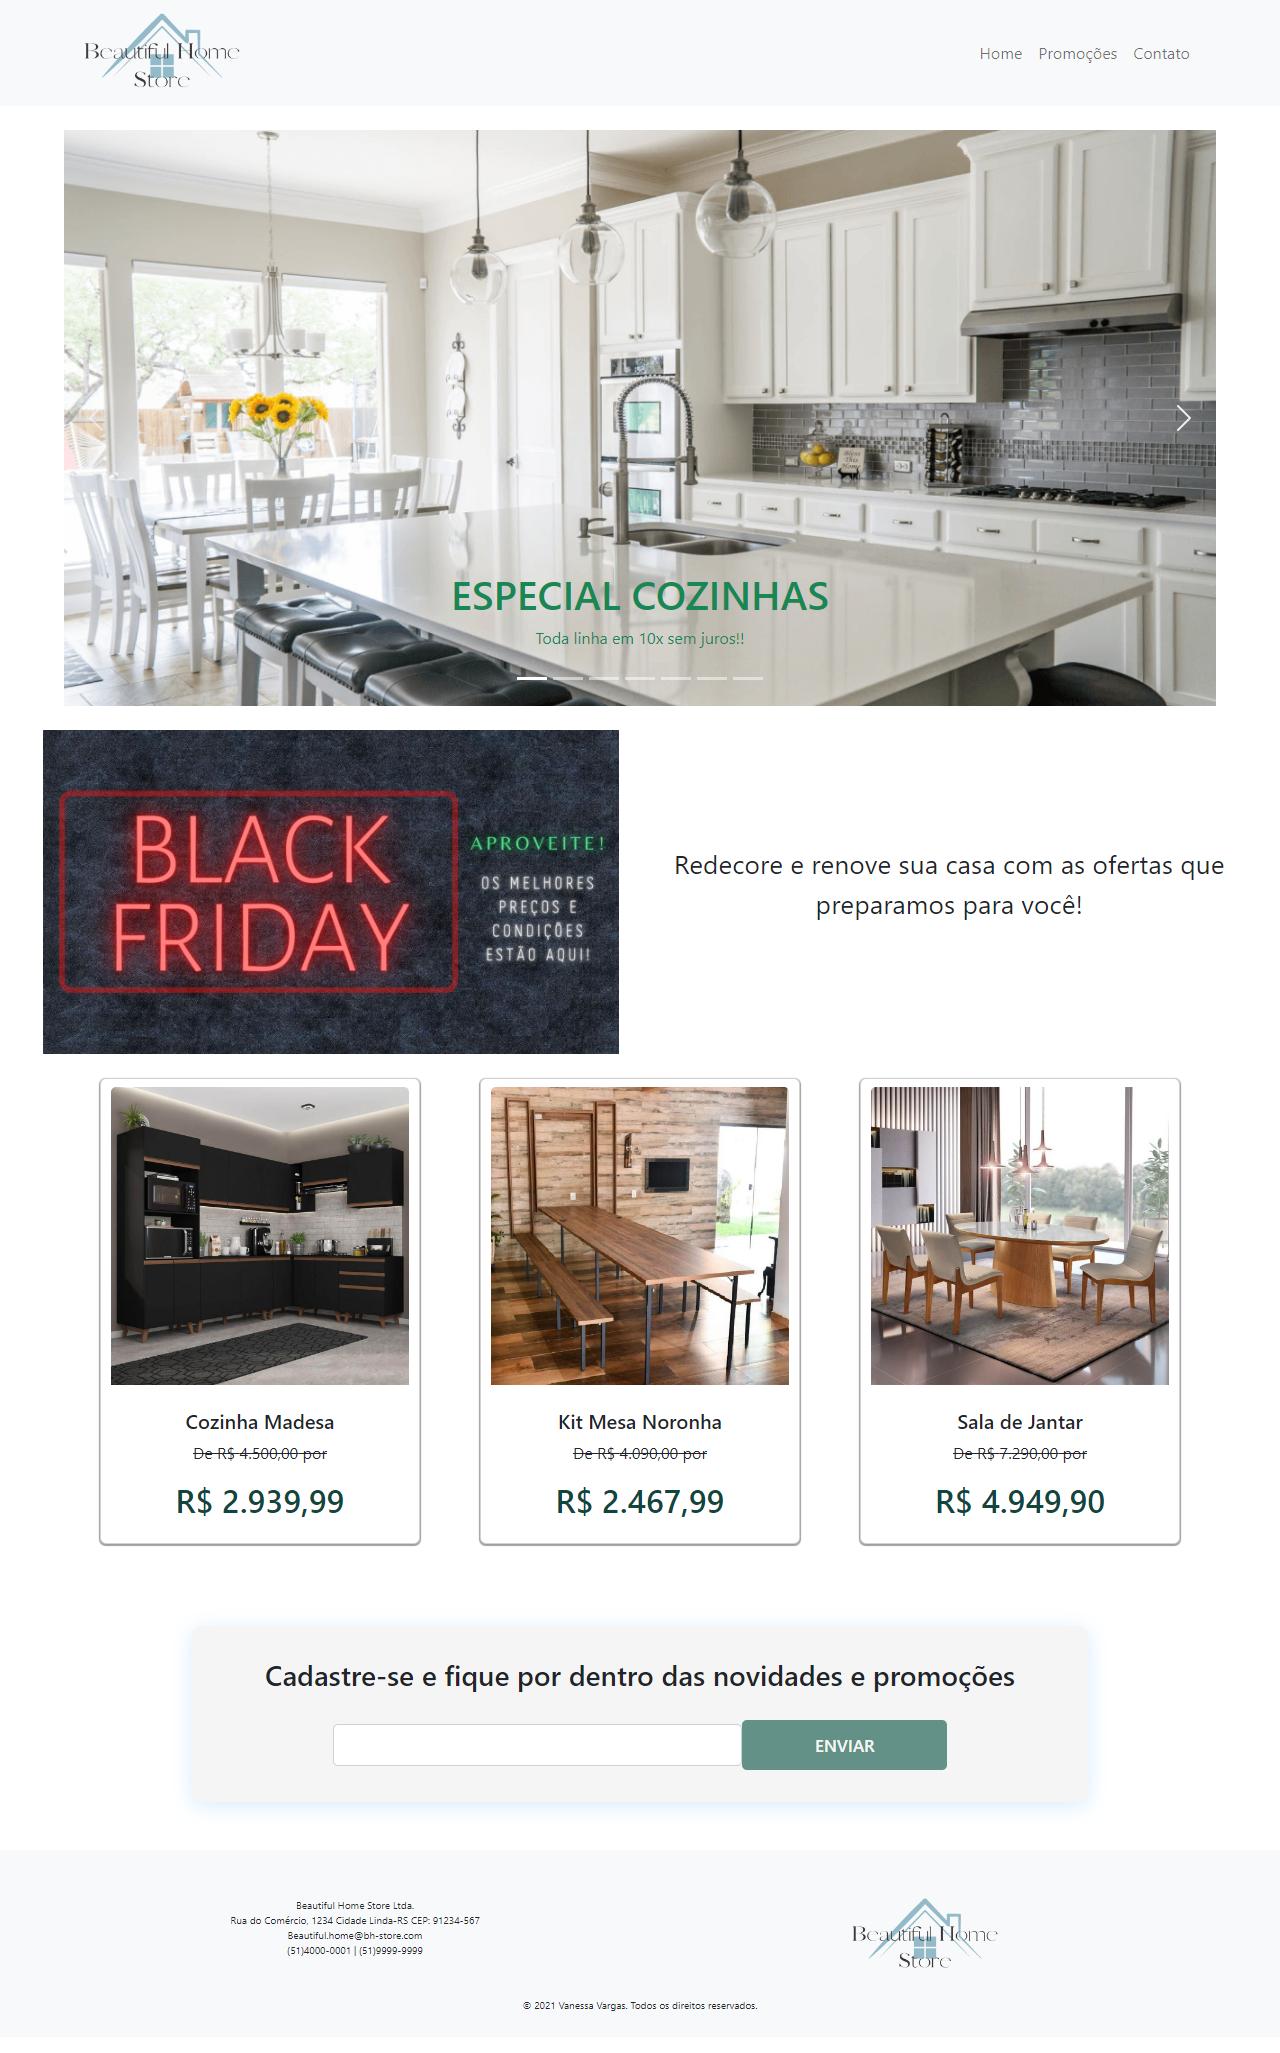
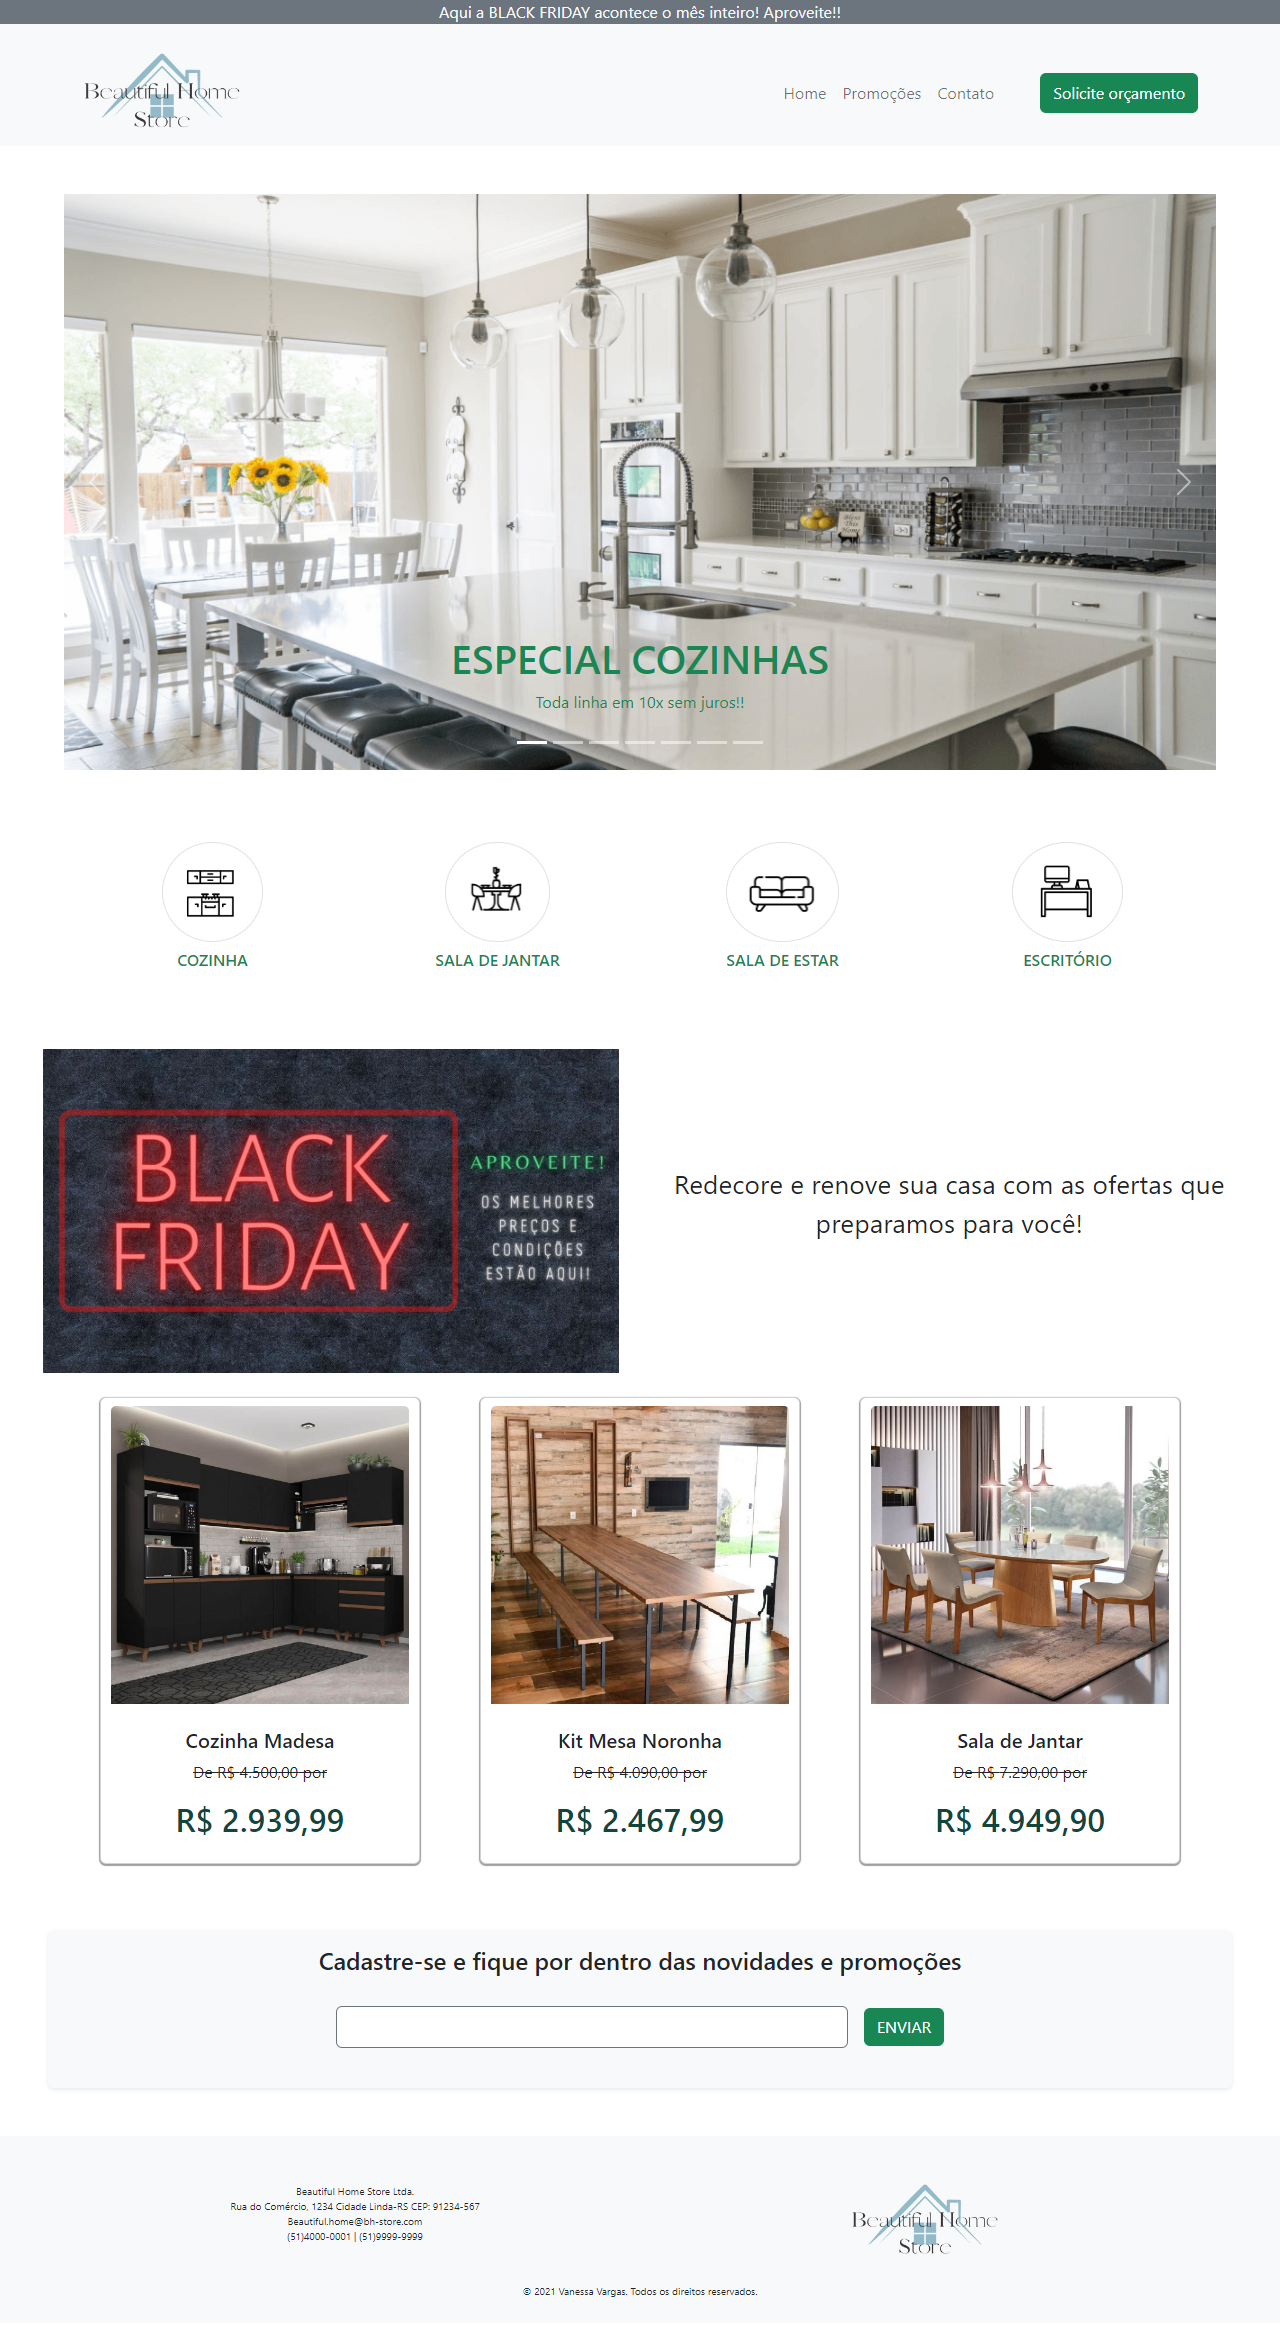
add modal

diff --git a/src/components/ModalContact.jsx b/src/components/ModalContact.jsx
@@ -1,0 +1,52 @@
+import React from 'react';
+import Modal from 'react-bootstrap/Modal';
+import swal from 'sweetalert';
+
+function ConfMensage () {
+    swal( "Mensagem enviada com sucesso!", {
+      icon: "success",
+      closeOnEsc: true,
+    });
+}
+
+
+export default function ModalContact(props) {
+  return (
+    <Modal
+      {...props}
+      size="lg"
+      aria-labelledby="contained-modal-title-vcenter"
+      centered className='p-5'
+    >
+      <Modal.Header closeButton>
+        <Modal.Title id="contained-modal-title-vcenter">
+          Envie seus dados e entraremos em contato!
+        </Modal.Title>
+      </Modal.Header>
+      <Modal.Body className="modal text-center d-block p-5">
+        <form  action="" method="get" onSubmit="return ConfMensage();">
+          <div class="input-group mb-3">
+            <label class="input-group-prepend mx-2"  id="nome inputGroup-sizing-default">Nome</label>
+            <input type="text" class="form-control" aria-describedby="inputGroup-sizing-default" required/>
+          </div>
+          <div class="input-group mb-3">
+            <label class="input-group-prepend mx-2"  id="inputGroup-sizing-default">E-mail</label>
+            <input type="email" class="form-control" aria-describedby="inputGroup-sizing-default" required/>
+          </div>
+          <div class="input-group mb-3">
+            <label class="input-group-prepend mx-2"  id="inputGroup-sizing-default">Telefone</label>
+            <input type="text" class="form-control" aria-describedby="inputGroup-sizing-default"/>
+          </div>
+          <div class="input-group mb-3">
+            <label class="input-group-prepend mx-2"  id="inputGroup-sizing-default">Mensagem</label>
+            <textarea type="text" class="form-control" aria-describedby="inputGroup-sizing-default"/>
+          </div>
+          <input className="btn btn-success mx-2" type="submit" value="ENVIAR" />
+        </form>
+      </Modal.Body>
+      <Modal.Footer className='d-flex justify-content-center'>
+        <p>Agradecemos seu contato. Responderemos o mais breve possível!</p>
+      </Modal.Footer>
+    </Modal>
+  );
+}

diff --git a/src/components/Menu.jsx b/src/components/Menu.jsx
@@ -1,8 +1,13 @@
+import React from 'react';
 import { Button, Container, Nav, Navbar } from 'react-bootstrap';
 
 import Logo from "../assets/img/logotipo.svg";
+import ModalContact from './ModalContact';
 
 export default function Menu() {
+  const [modalShow, setModalShow] = React.useState(false);
+
+
   return (
     <Navbar className='bg-light' variant="light" expand="md" widht="100%">
       <Container>
@@ -14,7 +19,11 @@ export default function Menu() {
             <Nav.Link href="/">Home</Nav.Link>
             <Nav.Link href="#promocoes">Promoções</Nav.Link>
             <Nav.Link href="#contato">Contato</Nav.Link>
-            <Button variant='success'className='btnOrcamento'>Solicite orçamento</Button>
+            <Button variant='success'className='btnOrcamento' onClick={() => setModalShow(true)}>Solicite orçamento</Button>
+
+            <ModalContact show={modalShow}
+              onHide={() => setModalShow(false)}
+            />
           </Nav>
         </Navbar.Collapse>
       </Container>

diff --git a/src/components/Newsletter.jsx b/src/components/Newsletter.jsx
@@ -10,13 +10,13 @@ export default class Newsletter extends React.Component {
     this.handleSubmit = this.handleSubmit.bind(this);
   }
           
-  handleChange(event) {
-    this.setState({value: event.target.value});
+  handleChange(e) {
+    this.setState({value: e.target.value});
   }
           
-  handleSubmit(event) {
+  handleSubmit(e) {
     swal('E-mail ' + this.state.value + ' cadastrado!');
-    event.preventDefault();
+    e.preventDefault();
   }
   
   render() {

diff --git a/src/assets/css/style.css b/src/assets/css/style.css
@@ -22,11 +22,19 @@
   width: 90%;
 }
 
+/* modal */
 .btnOrcamento {
   margin-left: 3vw;
 }
 
-/*newsletter*/
+.modal fieldset {
+  display: flex;
+  justify-content: space-between;
+  padding: 4px;
+  margin: 12px;
+}
+
+/* newsletter */
 .input {
   width: 40vw;
   min-width: 200px;
